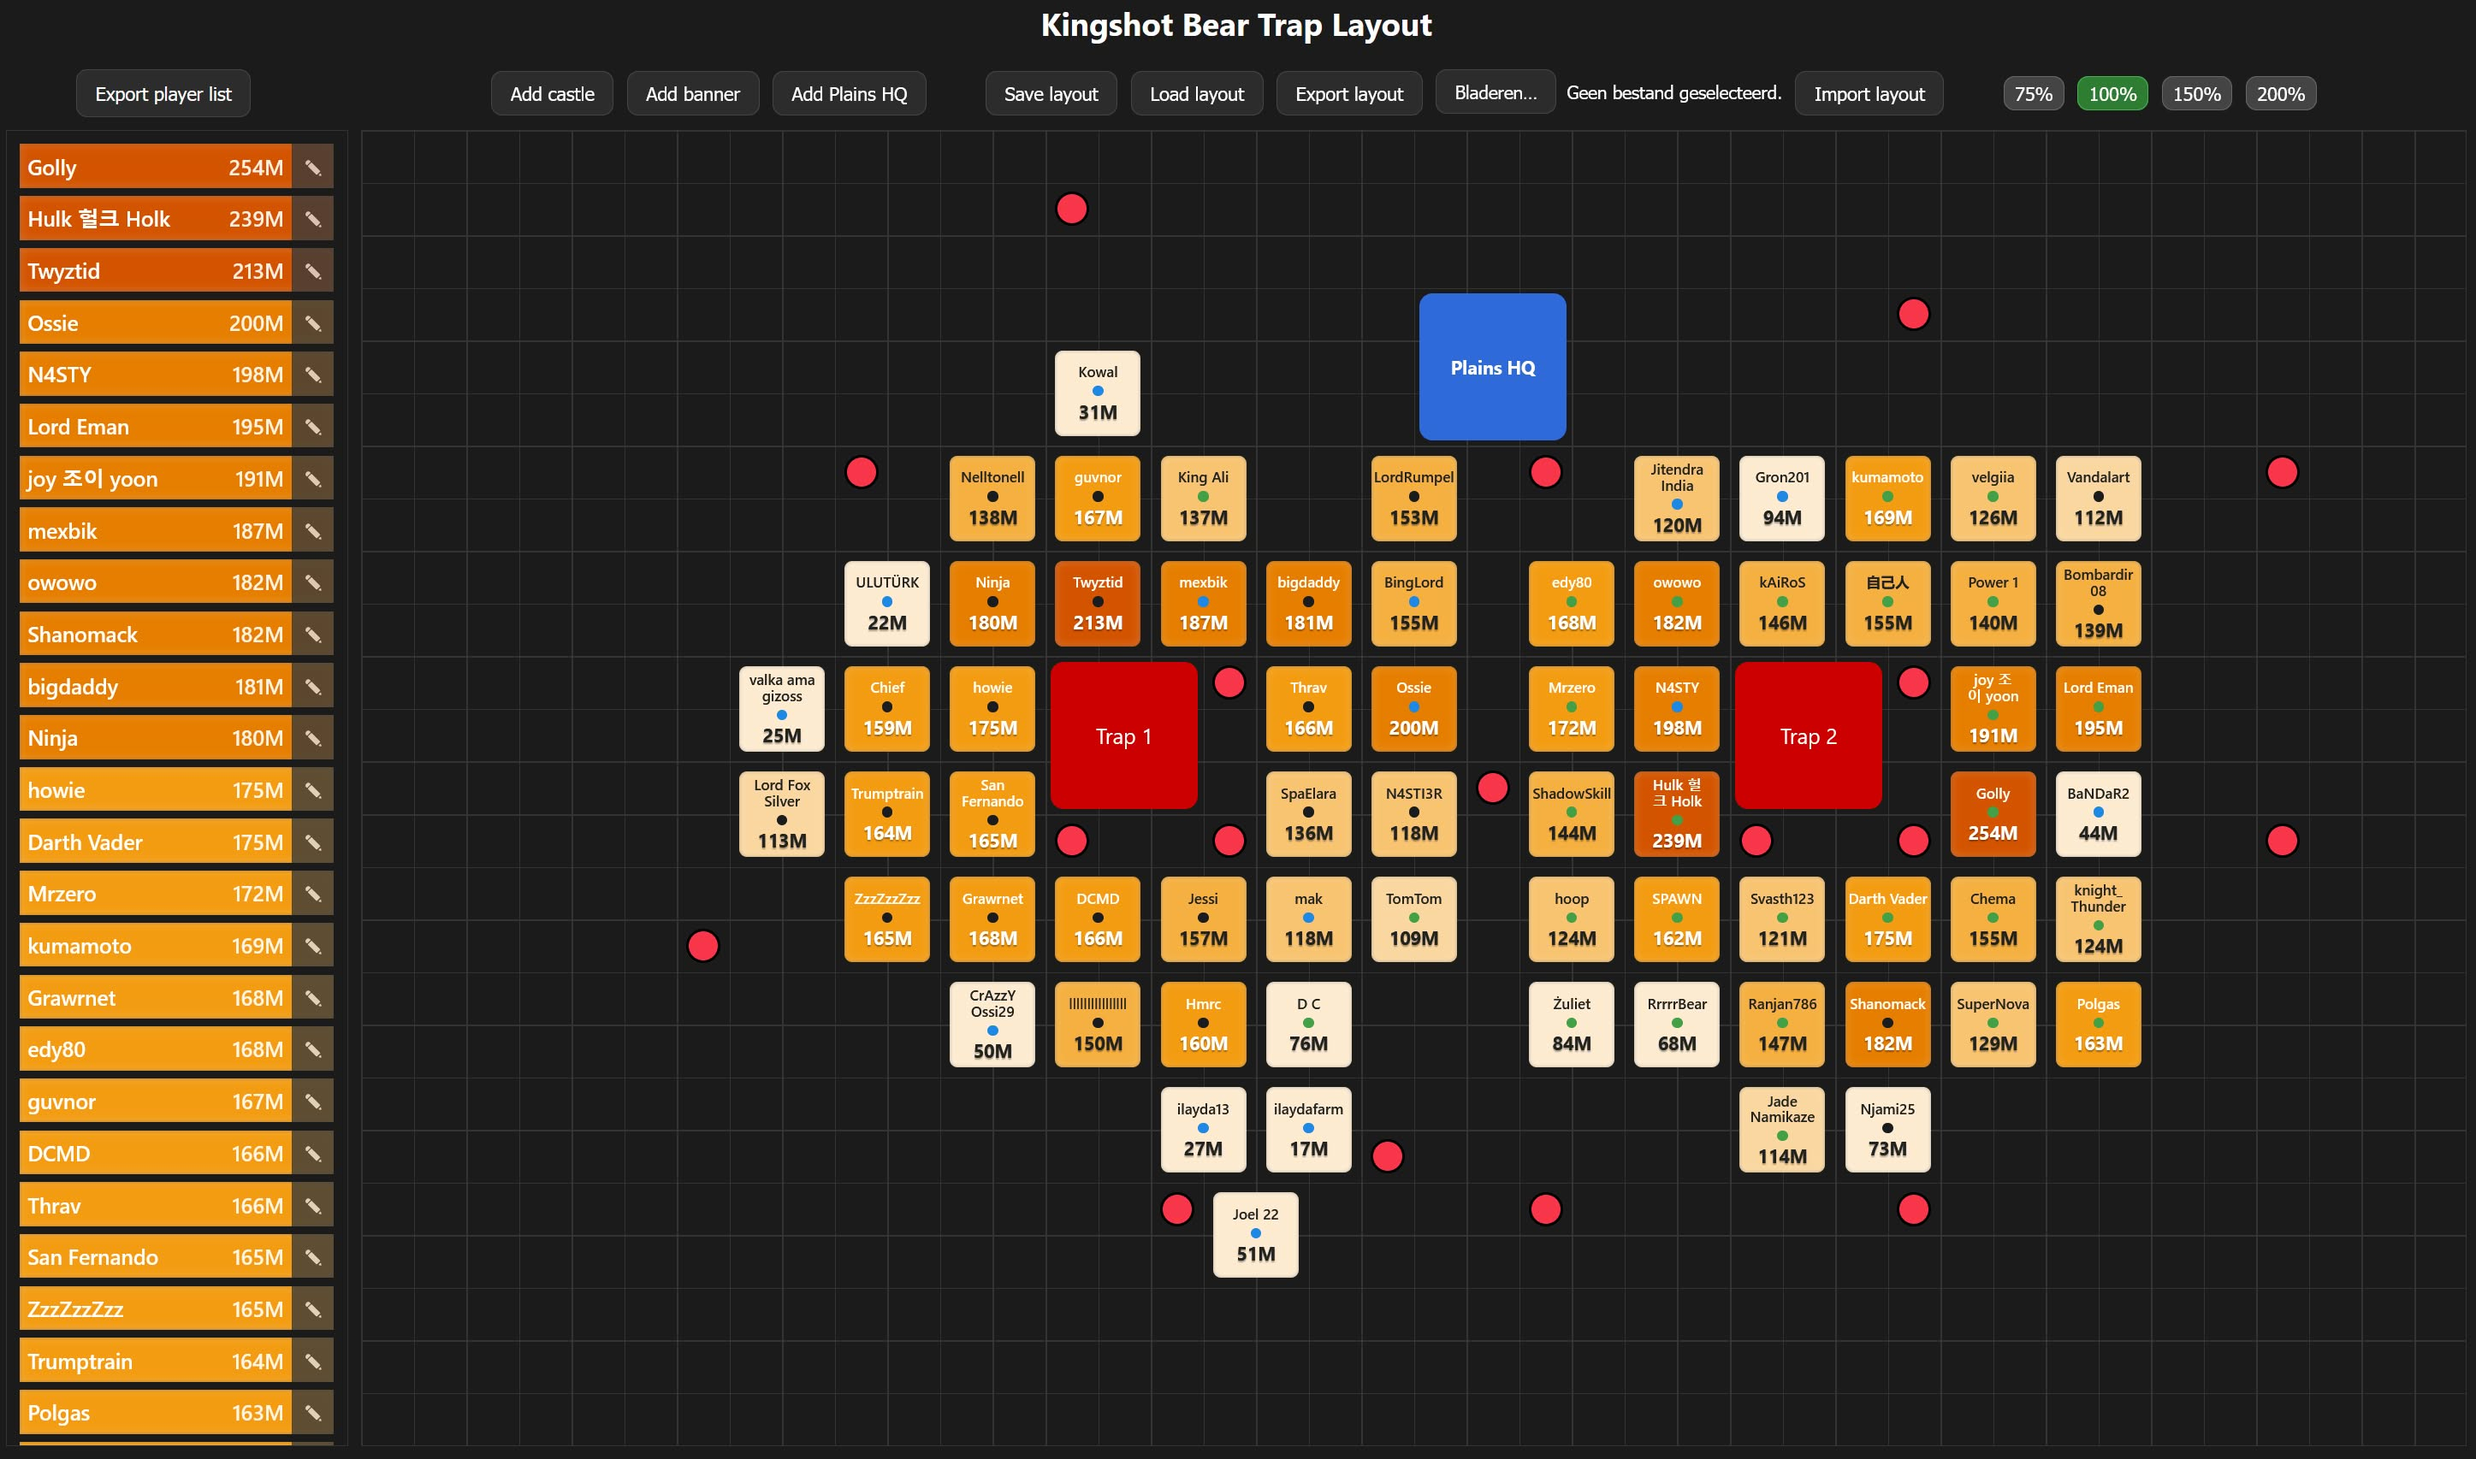
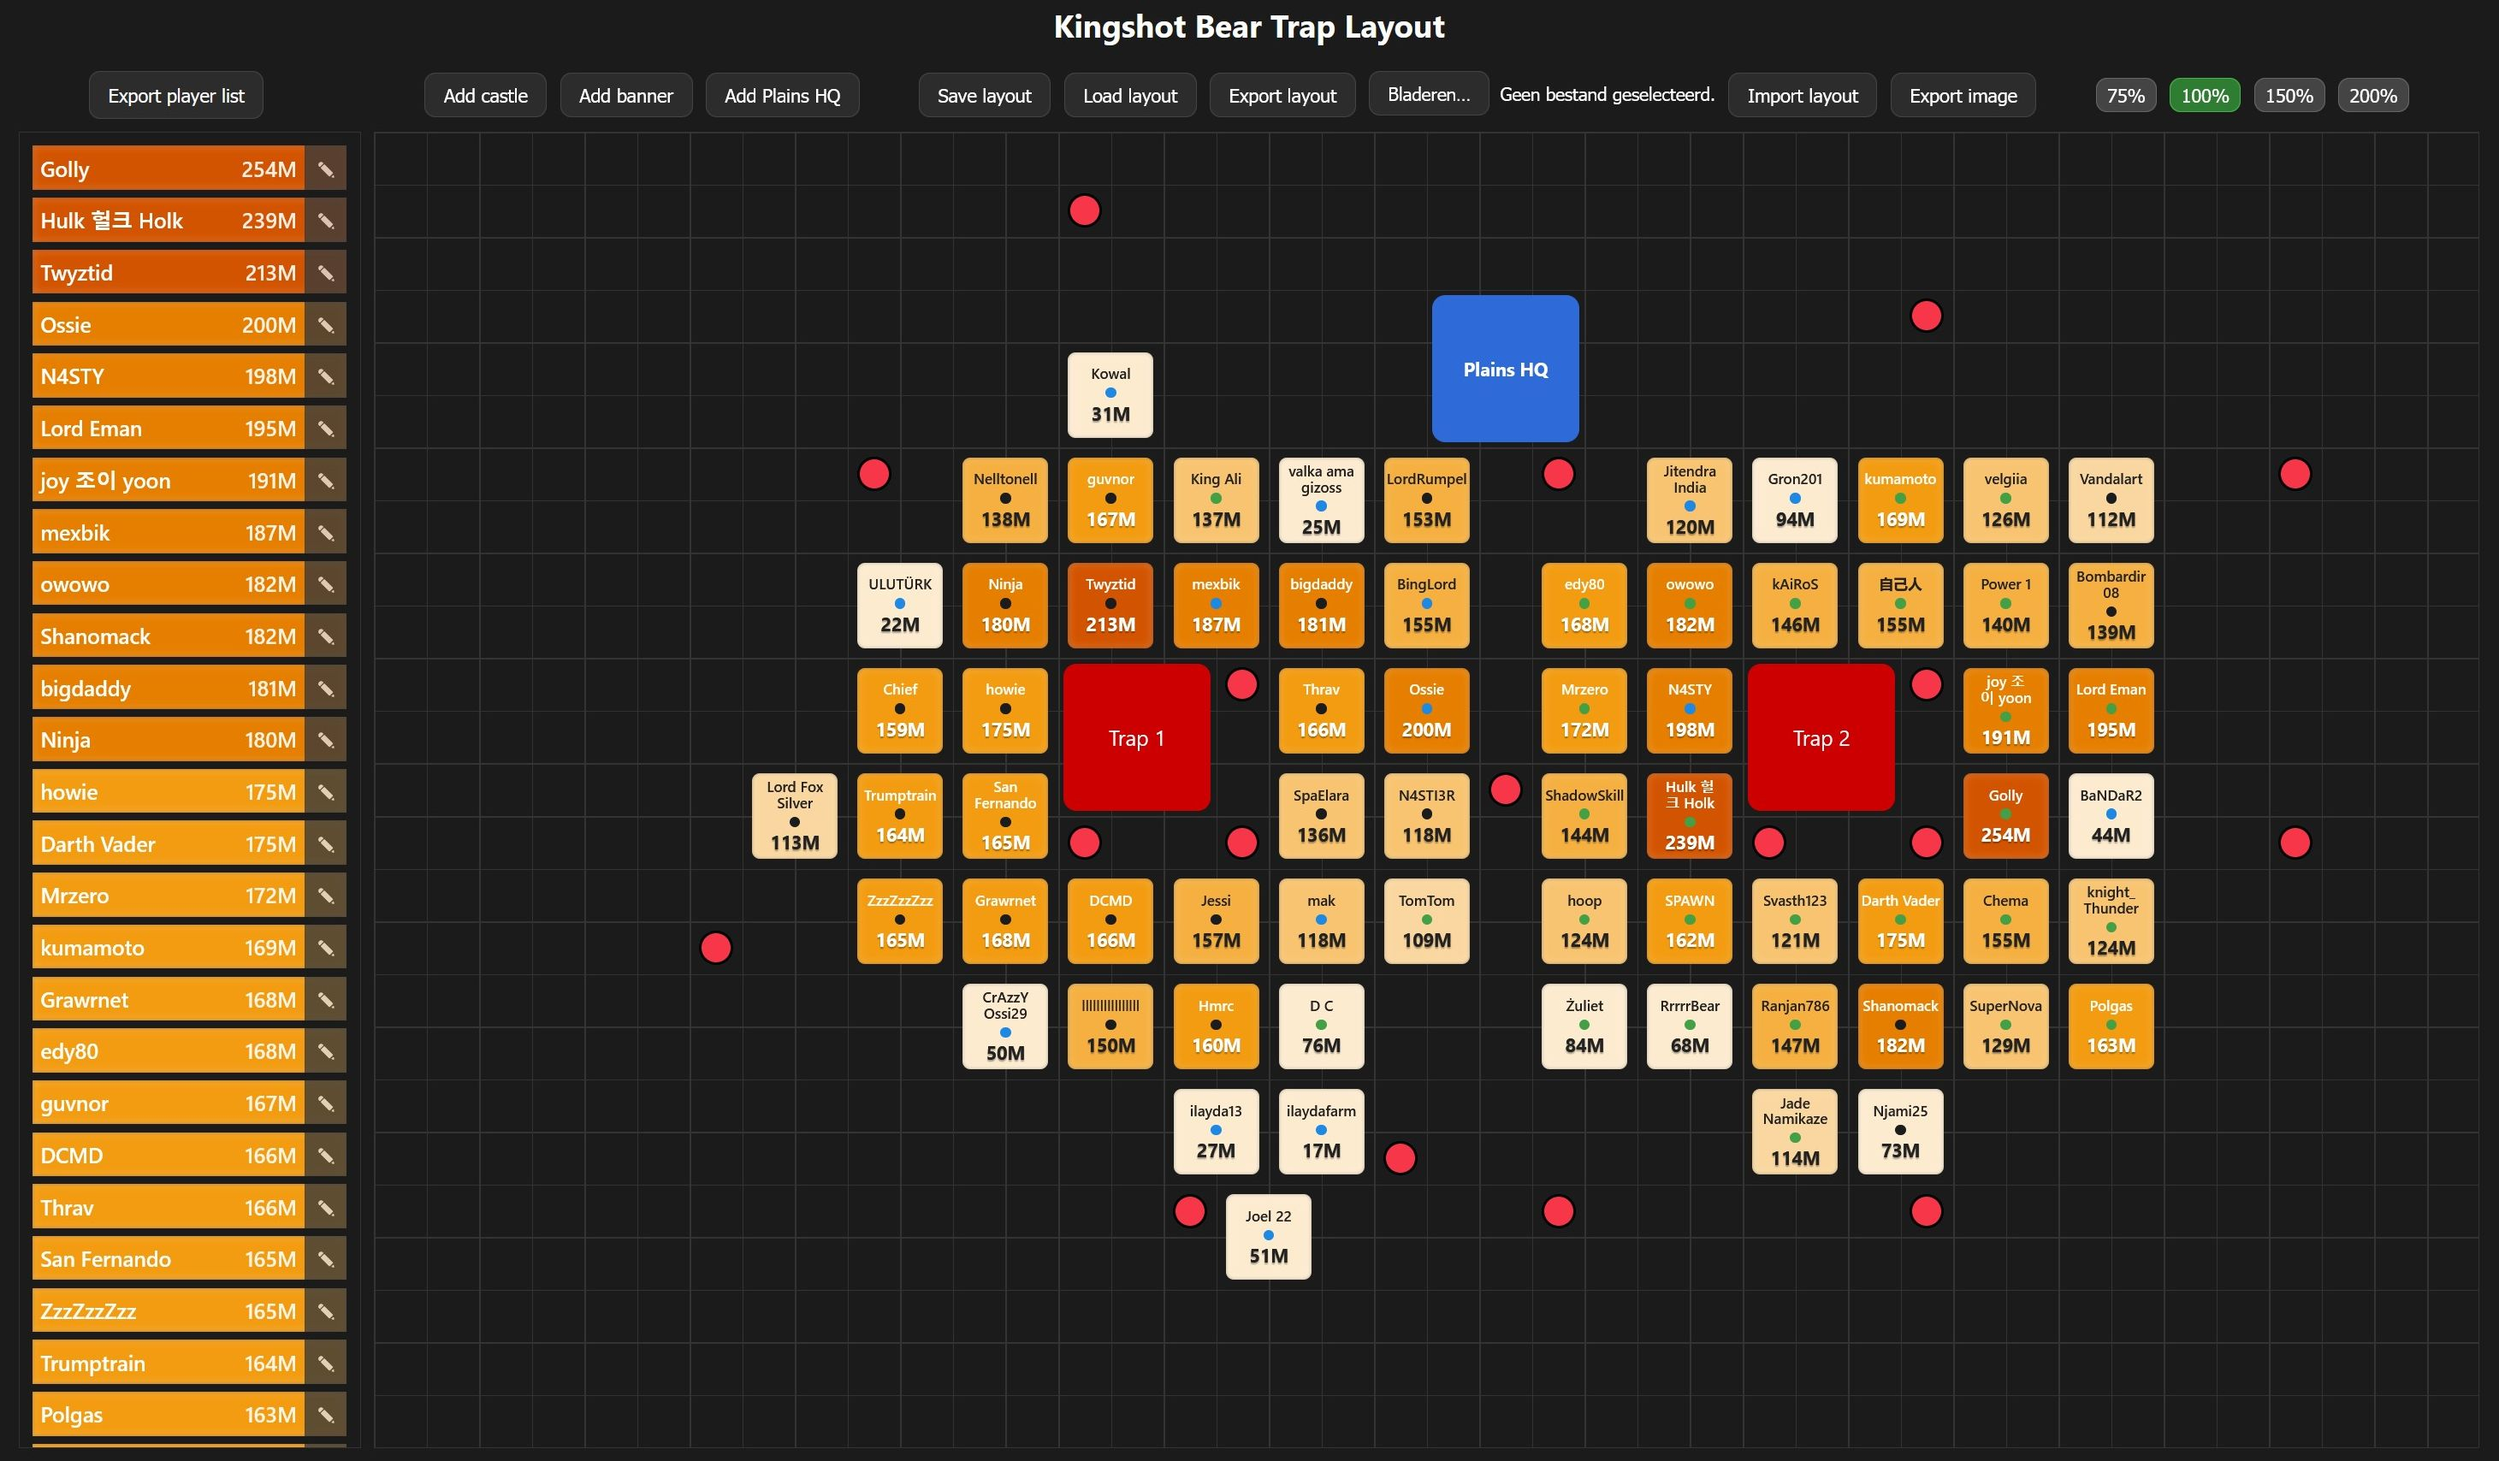
Added image export feature (html2canvas)

diff --git a/assets/css/style.css b/assets/css/style.css
@@ -1,3 +1,7 @@
+/* =========================================================
+   GLOBAL RESET & BASE
+========================================================= */
+
 *{
     box-sizing:border-box;
 }
@@ -8,6 +12,10 @@ body{
     text-align:center;
     overflow-x:auto;
 }
+
+/* =========================================================
+   MAP
+========================================================= */
 
 #map{
     width:1600px;
@@ -27,6 +35,10 @@ body{
 .map-area{
     width:1600px;
 }
+
+/* =========================================================
+   CASTLES
+========================================================= */
 
 .castle{
     width:65px;
@@ -80,6 +92,10 @@ body{
 .castle{
     position:absolute;
 }
+
+/* =========================================================
+   MAP OBJECTS (TRAPS / BANNERS / HQ)
+========================================================= */
 
 .trap{
     width:112px;
@@ -145,6 +161,10 @@ body{
     opacity:0.7;
 }
 
+/* =========================================================
+   TOOLBAR / LAYOUT
+========================================================= */
+
 .toolbar-container{
     width:1600px;
     margin-bottom:10px;
@@ -189,6 +209,18 @@ body{
     margin:20px auto;
 }
 
+.layout{
+    display:flex;
+    justify-content:center;
+    align-items:flex-start;
+    gap:30px;
+    min-width:1900px;
+}
+
+/* =========================================================
+   PLAYER PANEL
+========================================================= */
+
 .player-panel{
     width:240px;
     display:flex;
@@ -206,14 +238,6 @@ body{
     height:36px;
 }
 
-.layout{
-    display:flex;
-    justify-content:center;
-    align-items:flex-start;
-    gap:30px;
-    min-width:1900px;
-}
-
 #playerList{
     width:260px;
     border:1px solid #333;
@@ -221,6 +245,10 @@ body{
     height:1000px;
     overflow-y:auto;
 }
+
+/* =========================================================
+   PLAYER ITEMS
+========================================================= */
 
 .player{
     display:flex;
@@ -285,6 +313,10 @@ body{
     font-weight:600;
 }
 
+/* =========================================================
+   POWER LEVELS
+========================================================= */
+
 .player.level-exceptional,
 .castle.level-exceptional{ background:#d35400; color:white; }
 
@@ -306,6 +338,10 @@ body{
 .player.level-poor,
 .castle.level-poor{ background:#fdebd0; color:#222; }
 
+/* =========================================================
+   ACTIVE STATES
+========================================================= */
+
 .player.active{
     background:#2e7d32;
 }
@@ -318,6 +354,10 @@ body{
 .castle.active .castle-name{
     color:white;
 }
+
+/* =========================================================
+   BUTTONS / INPUTS
+========================================================= */
 
 button{
     background:#2c2c2c;
@@ -366,9 +406,17 @@ input[type="file"]:hover::file-selector-button{
     border-color:#4caf50;
 }
 
+/* =========================================================
+   INTERACTION STATES
+========================================================= */
+
 .drag-preview{
     outline:2px dashed rgba(255,200,0,0.6);
 }
+
+/* =========================================================
+   DIALOG / MODAL
+========================================================= */
 
 .trap-select{
     display:flex;
@@ -422,4 +470,17 @@ dialog input{
     display:flex;
     gap:10px;
     justify-content:flex-end;
+}
+
+/* =========================================================
+   EXPORT MODE
+========================================================= */
+
+.export-mode .castle,
+.export-mode .player{
+    box-shadow: none !important;
+}
+
+.export-mode .castle{
+    border:1px solid rgba(255,255,255,0.3);
 }

diff --git a/assets/js/planner.js b/assets/js/planner.js
@@ -882,6 +882,38 @@ function exportPlayerList(){
     URL.revokeObjectURL(url)
 
 }
+async function exportScreenshot(){
+
+    const mapEl = document.getElementById("map")
+
+    // 🔹 backup huidige state
+    const originalTransform = mapEl.style.transform
+
+    // 🔹 force correcte rendering
+    mapEl.style.transform = "scale(1)"
+    mapEl.classList.add("export-mode")
+
+    const canvas = await html2canvas(mapEl, {
+        backgroundColor: "#1b1b1b",
+        scale: 2,
+        useCORS: true
+    })
+
+    // 🔹 restore
+    mapEl.style.transform = originalTransform
+    mapEl.classList.remove("export-mode")
+
+    canvas.toBlob(blob => {
+        const url = URL.createObjectURL(blob)
+
+        const a = document.createElement("a")
+        a.href = url
+        a.download = "kingshot_map.png"
+        a.click()
+
+        URL.revokeObjectURL(url)
+    })
+}
 
 /* =========================================================
    INITIALIZATION

diff --git a/index.html b/index.html
@@ -88,6 +88,7 @@
                 <button onclick="importLayout(document.getElementById('importFile').files[0])">
                     Import layout
                 </button>
+                <button onclick="exportScreenshot()">Export image</button>
             </div>
 
             <div class="toolbar-group">
@@ -108,6 +109,7 @@
 
 </div>
 
+<script src="https://cdn.jsdelivr.net/npm/html2canvas@1.4.1/dist/html2canvas.min.js"></script>
 <script src="assets/js/planner.js"></script>
 
 </body>

diff --git a/README.md b/README.md
@@ -35,6 +35,7 @@ This planner helps organize player positioning around bear traps and plains HQ d
 - Export / import layout JSON
 - Export player list to CSV
 - Zoom levels (75–200%)
+- Export map as image (PNG) for easy sharing
 
 ---
 
